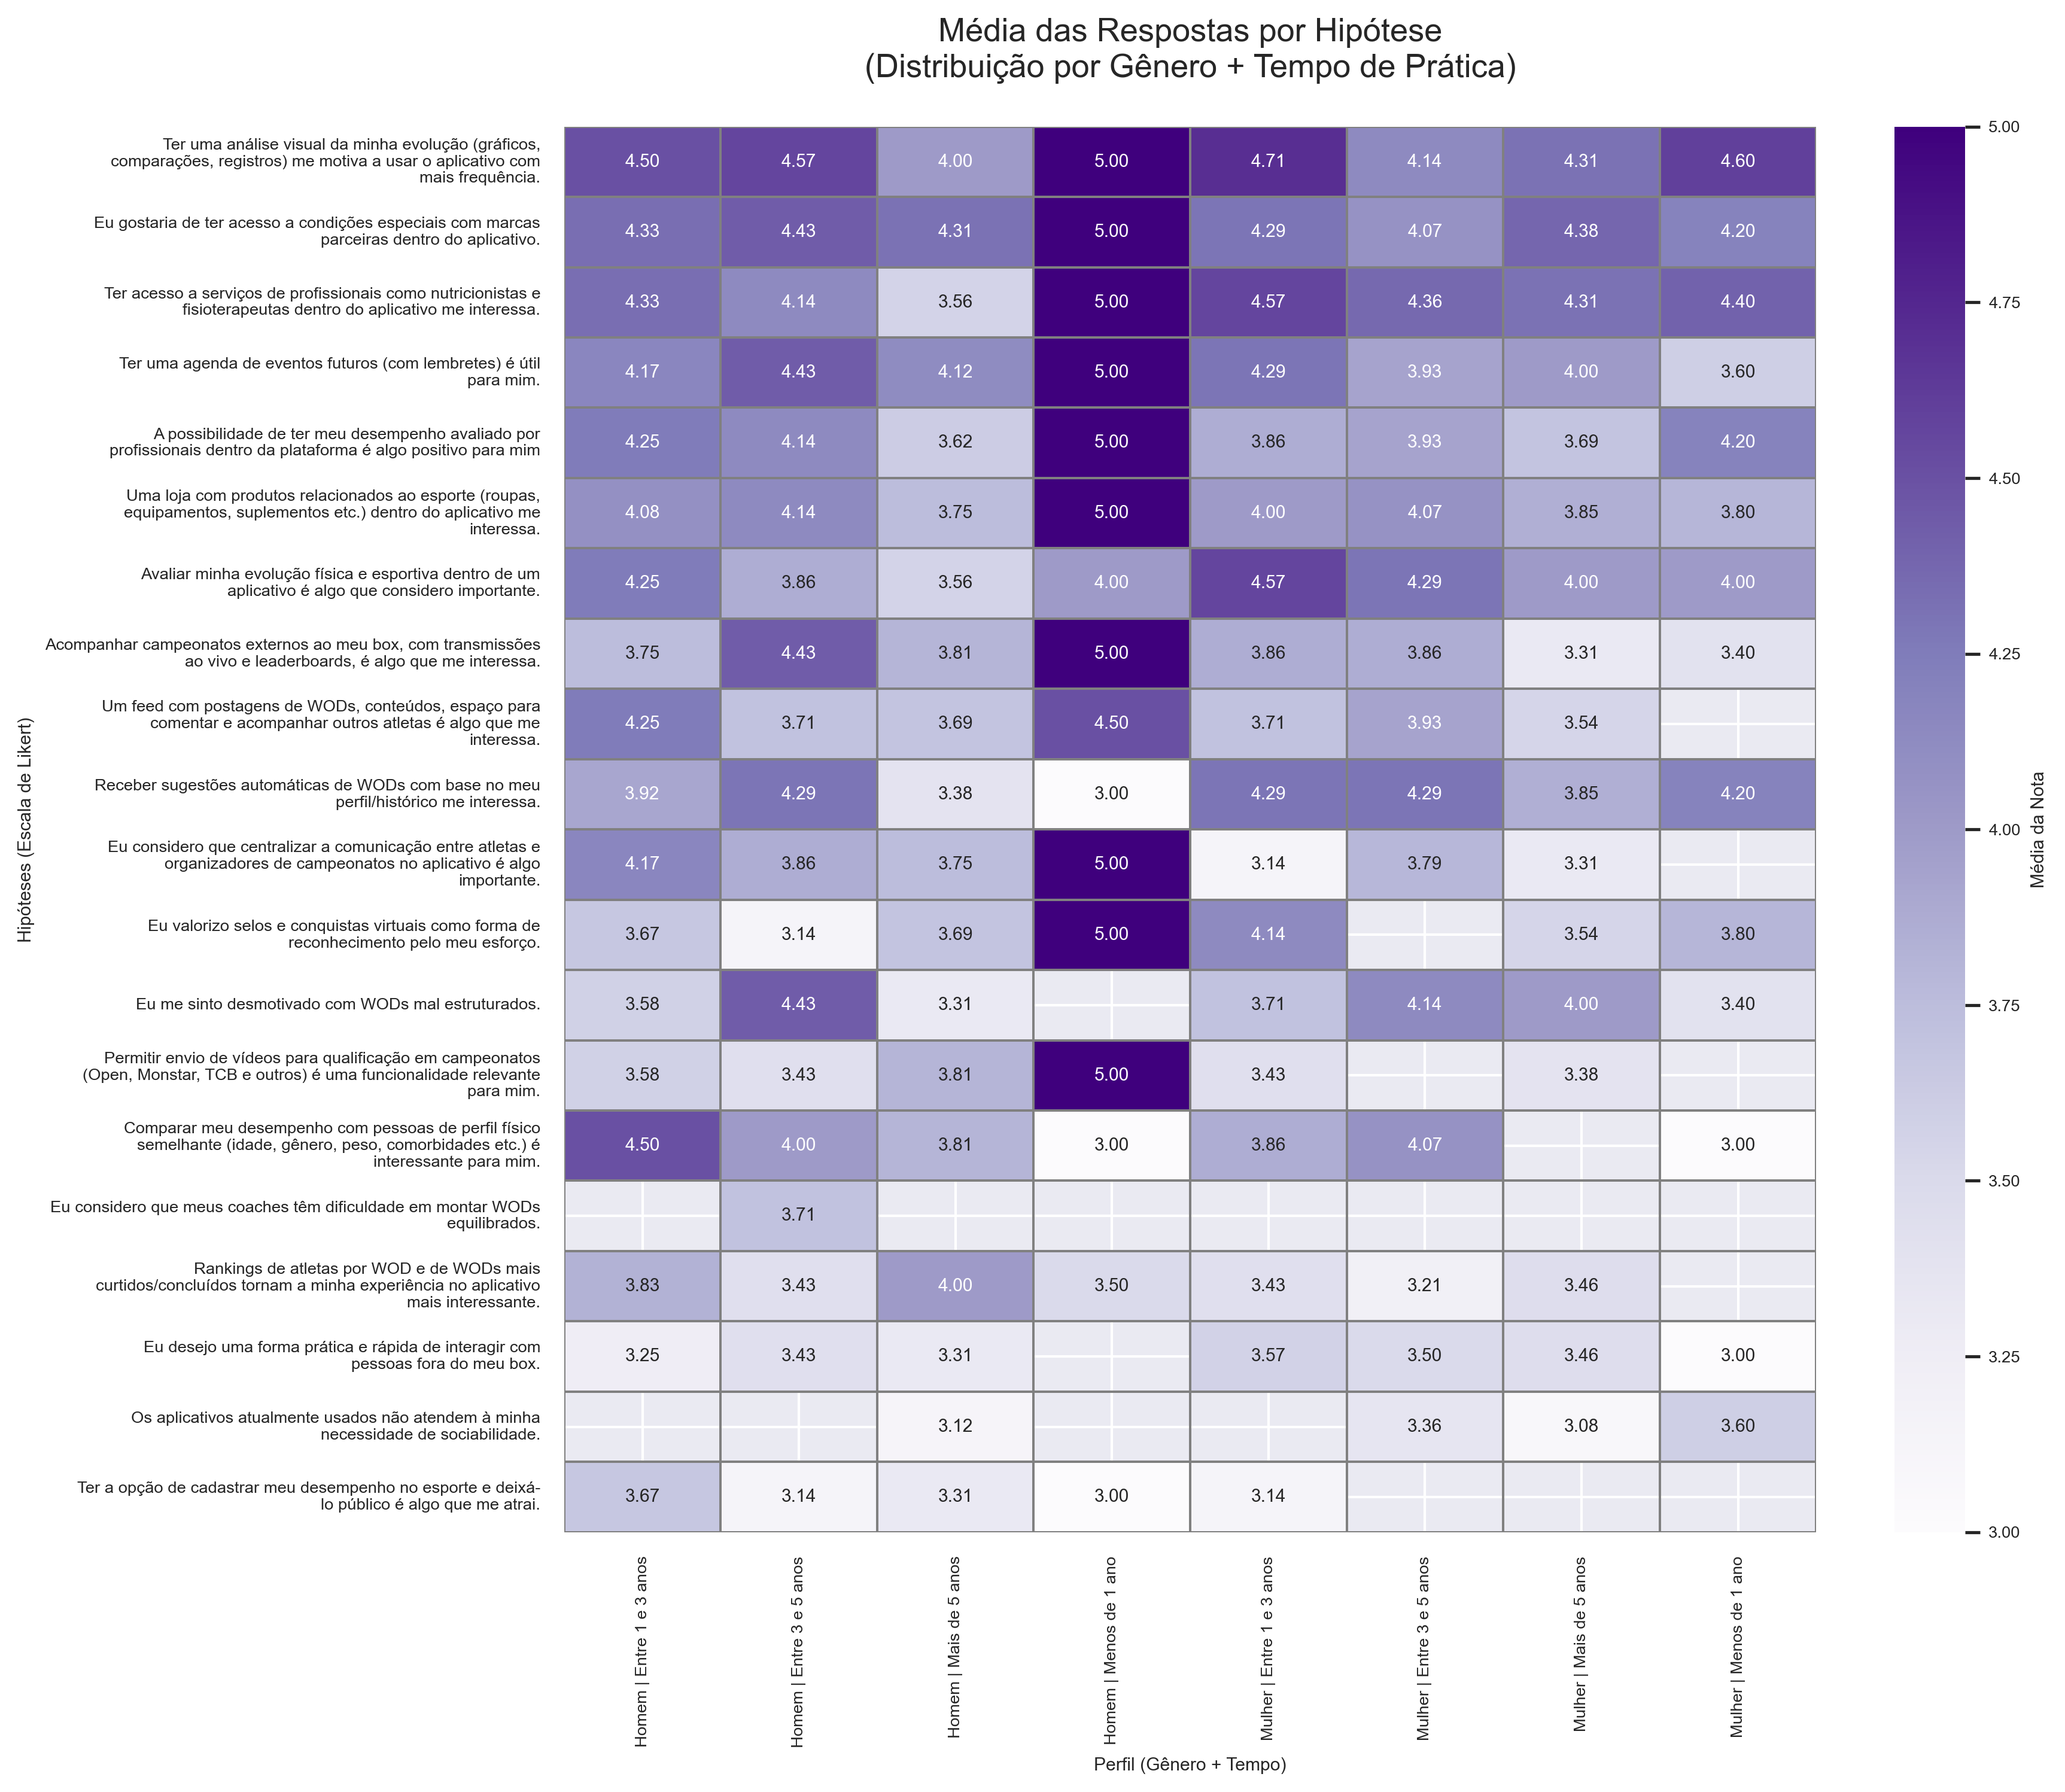
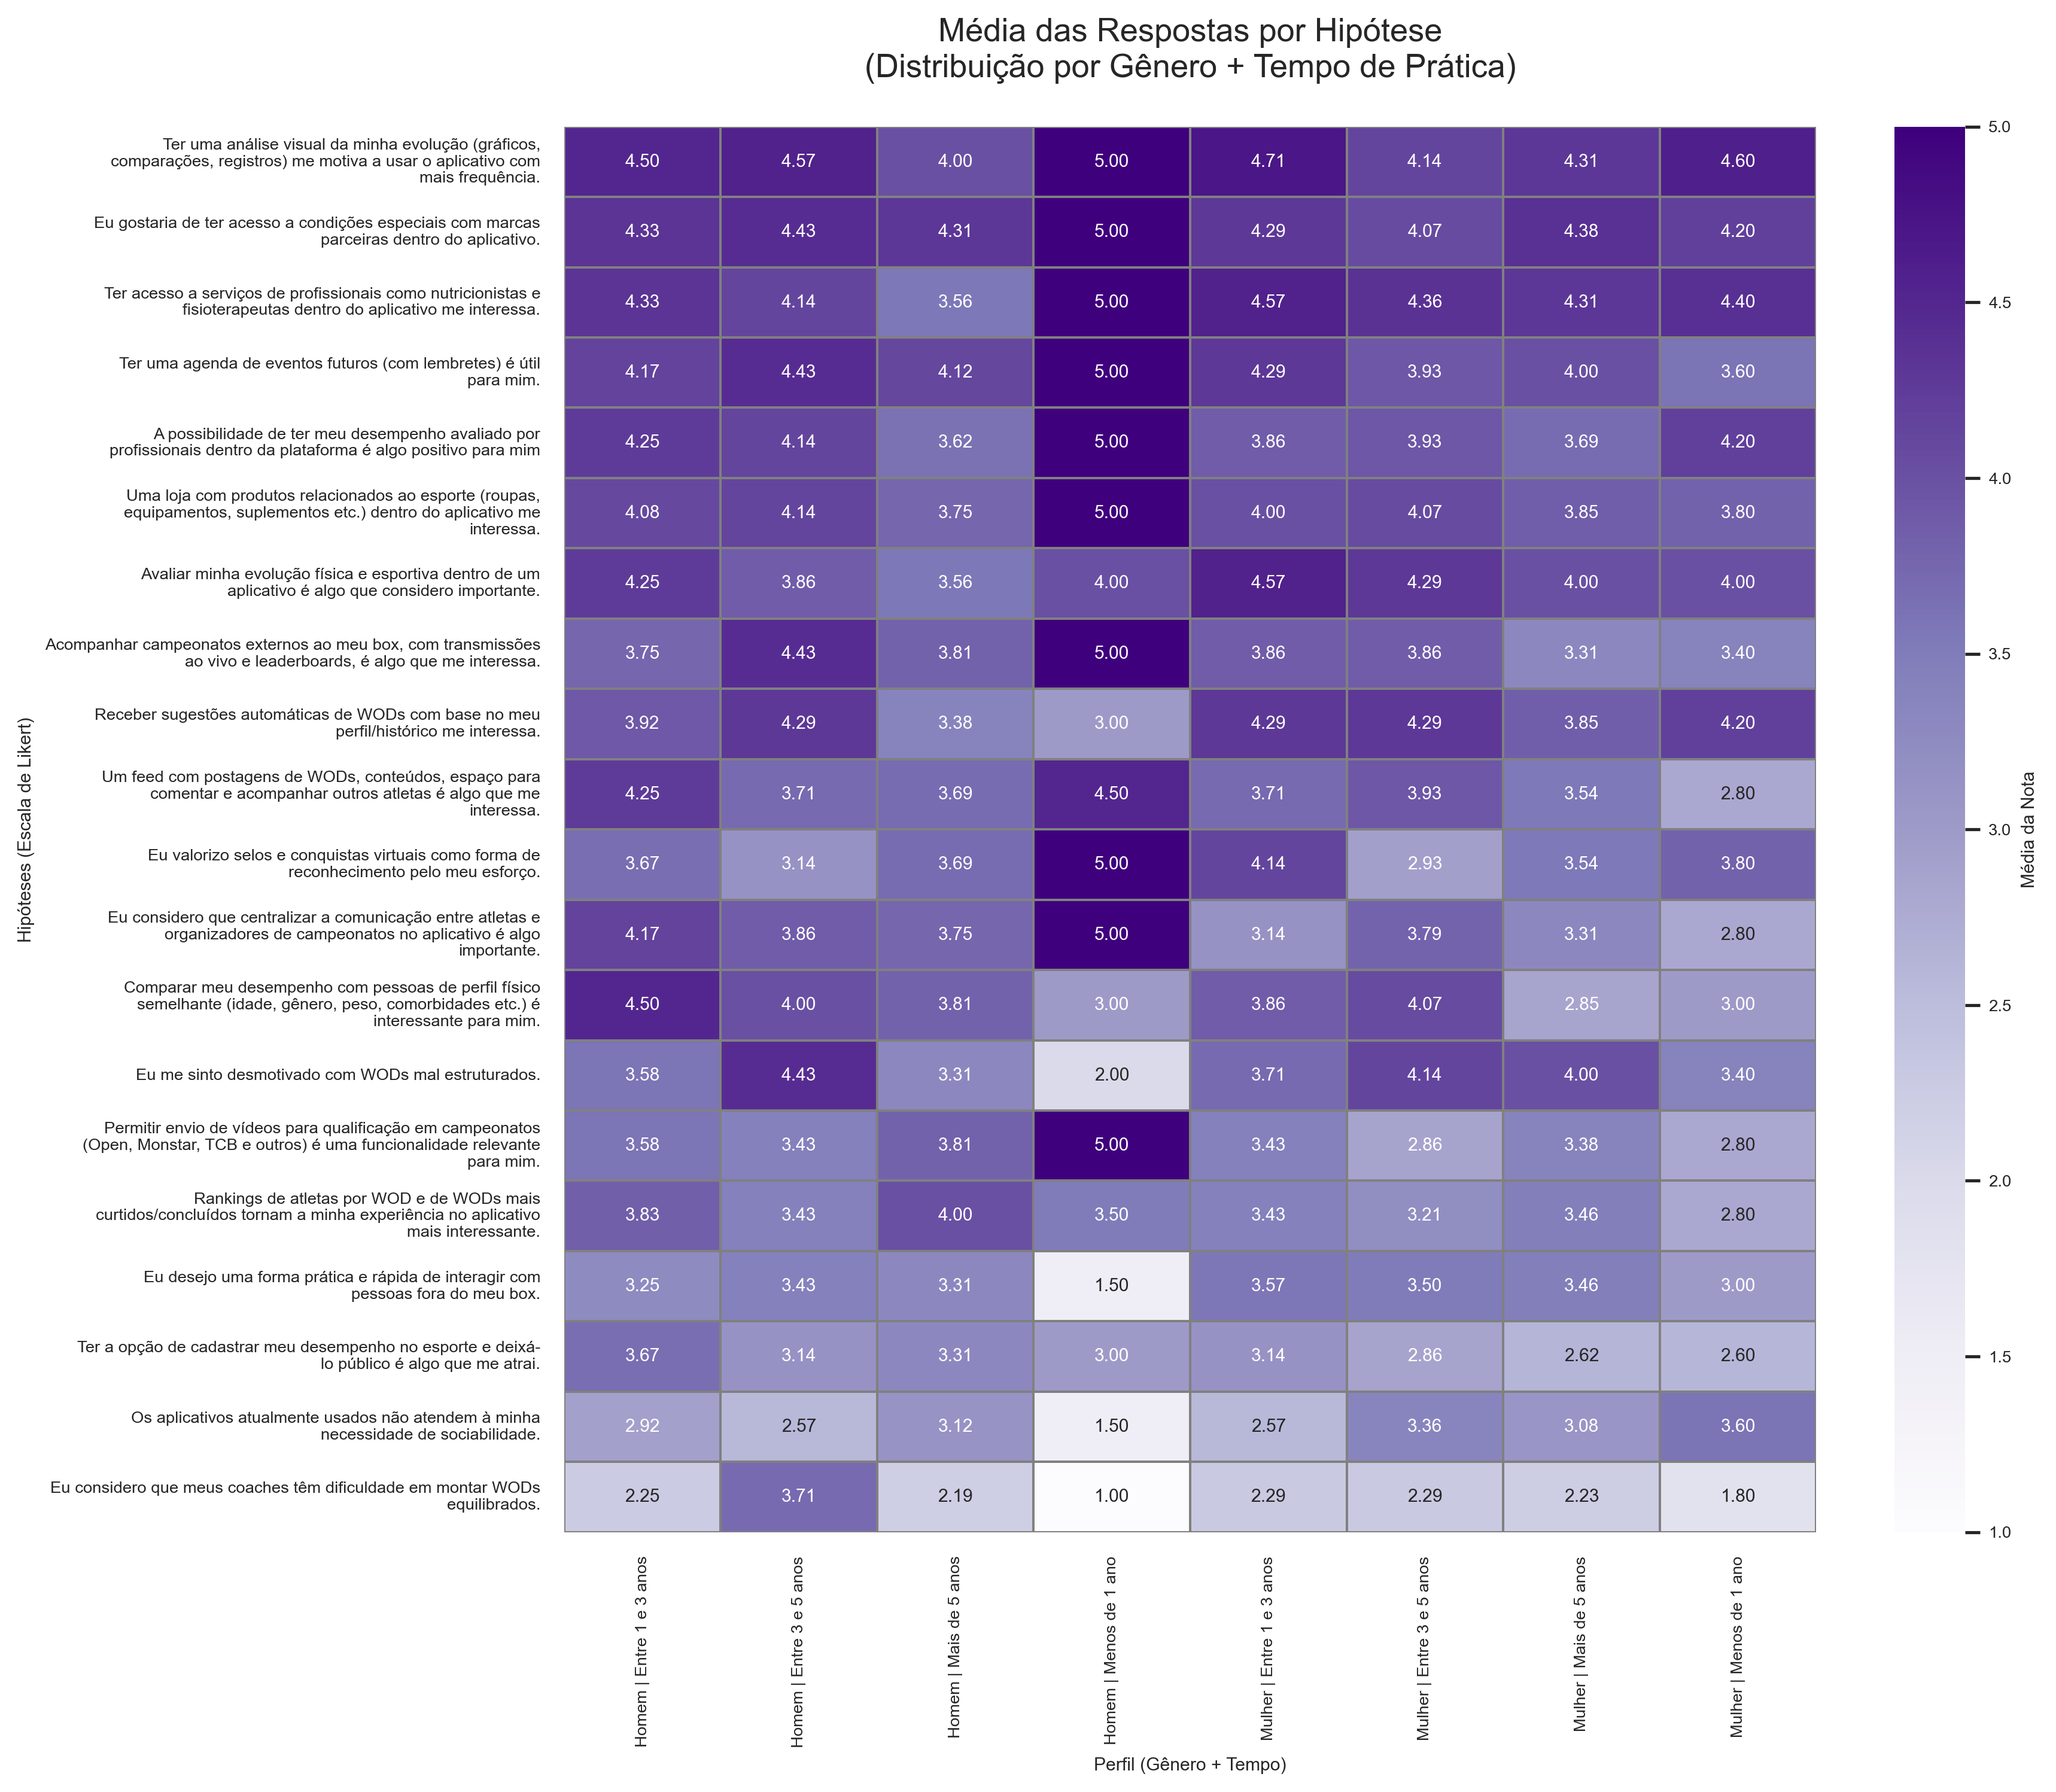
refactor(ux_tests): include all hypotheses in gender x experience analysis

diff --git a/scripts_gerais/ux_tests/hipoteses_genero_tempo.py b/scripts_gerais/ux_tests/hipoteses_genero_tempo.py
@@ -53,12 +53,11 @@ dados_filtrados = []
 # Para cada perfil, verifica quais hipóteses tiveram média ≥ 3 e adiciona no resultado
 for perfil, linha in medias_por_perfil.iterrows():
     for hipotese, media in linha.items():
-        if media >= 3.0:
-            dados_filtrados.append({
-                "Perfil": perfil,
-                "Hipótese": hipotese,
-                "Média da Nota": round(media, 2)
-            })
+        dados_filtrados.append({
+            "Perfil": perfil,
+            "Hipótese": hipotese,
+            "Média da Nota": round(media, 2)
+        })
 
 # Converte para DataFrame
 resultado = pd.DataFrame(dados_filtrados)
